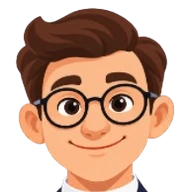
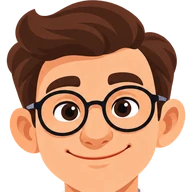
feat(sanad): greet with the full portrait, keep the face in the chat
The empty chat's welcome now shows the whole new portrait of Sanad, standing
in front of a disc of the theme's tint with its cut-off lower edge faded out.
The header and every answer keep a round face-only crop of the same drawing
(sanad-avatar.webp, regenerated from it).

diff --git a/web-frontend/test/unit/arabase/sanad.spec.js b/web-frontend/test/unit/arabase/sanad.spec.js
@@ -116,6 +116,18 @@ describe('SanadPanel', () => {
     expect(wrapper.findAll('.sanad__suggestion')).toHaveLength(0)
   })
 
+  test('an empty chat is greeted by the whole portrait', async () => {
+    const wrapper = await mountPanel()
+
+    expect(
+      wrapper.find('.sanad__welcome-portrait img').attributes('src')
+    ).toMatch(/sanad-portrait/)
+    // The header keeps the face only.
+    expect(wrapper.find('.sanad__logo img').attributes('src')).toMatch(
+      /sanad-avatar/
+    )
+  })
+
   test('sends a message, then polls until the answer arrives', async () => {
     const wrapper = await mountPanel()
     testApp.mock
@@ -394,10 +406,14 @@ describe('SanadPanel', () => {
 
     expect(wrapper.findAll('.sanad__bubble')).toHaveLength(1)
     expect(wrapper.findAll('.sanad__card')).toHaveLength(3)
-    // Sanad's portrait heads the panel and every one of its answers.
-    const portraits = wrapper.findAll('.sanad__avatar img, .sanad__logo img')
-    expect(portraits).toHaveLength(4)
-    expect(portraits[0].attributes('src')).toMatch(/sanad-avatar/)
+    // Sanad's face heads the panel and every one of its answers; the full
+    // portrait is only for the empty chat's welcome.
+    const faces = wrapper.findAll('.sanad__avatar img, .sanad__logo img')
+    expect(faces).toHaveLength(4)
+    expect(
+      faces.every((face) => /sanad-avatar/.test(face.attributes('src')))
+    ).toBe(true)
+    expect(wrapper.find('.sanad__welcome-portrait').exists()).toBe(false)
     const open = wrapper
       .findAll('.sanad__steps')
       .map((steps) => steps.element.open)

diff --git a/web-frontend/modules/arabase/assets/scss/sanad.scss b/web-frontend/modules/arabase/assets/scss/sanad.scss
@@ -74,9 +74,8 @@
 }
 
 // Sanad's face: a round portrait on the theme's tint, ringed in its accent.
-// Shared by the header, the welcome screen and every answer.
+// Shared by the header and every answer; the welcome screen shows all of him.
 .sanad__logo,
-.sanad__welcome-orb,
 .sanad__avatar {
   display: inline-flex;
   flex: 0 0 auto;
@@ -279,13 +278,40 @@
   text-align: center;
 }
 
-.sanad__welcome-orb {
-  inline-size: 88px;
-  block-size: 88px;
-  box-shadow:
-    0 0 0 3px var(--sanad-accent-bright),
-    0 0 0 10px var(--sanad-tint),
-    0 18px 36px -16px var(--sanad-accent);
+// The full portrait stands in front of a disc of the theme's tint. The drawing
+// is cut off at the waist, so its lower edge fades out instead of ending on a
+// hard line.
+.sanad__welcome-portrait {
+  position: relative;
+  display: block;
+  inline-size: 168px;
+  block-size: 168px;
+  margin-inline: auto;
+
+  &::before {
+    content: '';
+    position: absolute;
+    inset-block: 6% 10%;
+    inset-inline: 10%;
+    border-radius: 50%;
+    background-image: radial-gradient(
+      circle at 50% 35%,
+      var(--sanad-surface) 0%,
+      var(--sanad-tint-strong) 100%
+    );
+    box-shadow:
+      0 0 0 3px var(--sanad-accent-bright),
+      0 0 0 10px var(--sanad-tint);
+  }
+
+  img {
+    position: relative;
+    inline-size: 100%;
+    block-size: 100%;
+    object-fit: contain;
+    mask-image: linear-gradient(180deg, #000 78%, transparent 100%);
+    user-select: none;
+  }
 }
 
 .sanad__welcome-title {

diff --git a/web-frontend/modules/arabase/sanad/components/SanadPanel.vue b/web-frontend/modules/arabase/sanad/components/SanadPanel.vue
@@ -78,8 +78,12 @@
     <template v-else>
       <div ref="scroller" class="sanad__messages" aria-live="polite">
         <div v-if="!hasMessages" class="sanad__welcome">
-          <span class="sanad__welcome-orb" aria-hidden="true">
-            <img :src="avatar" alt="" draggable="false" />
+          <!--
+            The whole portrait greets the user; once the chat starts, only his
+            face heads the panel and each answer.
+          -->
+          <span class="sanad__welcome-portrait" aria-hidden="true">
+            <img :src="portrait" alt="" draggable="false" />
           </span>
           <p class="sanad__welcome-title">{{ $t('sanad.welcomeTitle') }}</p>
           <p class="sanad__welcome-text">{{ $t('sanad.welcomeText') }}</p>
@@ -320,6 +324,7 @@ import SanadService from '@jadawel/modules/arabase/services/sanad'
 import { notifyIf } from '@jadawel/modules/core/utils/error'
 import { takeSanadDraft } from '@jadawel/modules/arabase/sanad/utils/askSanad'
 import sanadAvatar from '@jadawel/modules/arabase/assets/images/sanad-avatar.webp?url'
+import sanadPortrait from '@jadawel/modules/arabase/assets/images/sanad-portrait.webp?url'
 
 const POLL_INTERVAL = 1500
 const MODEL_STORAGE_KEY = 'jadawel.sanad.model'
@@ -416,6 +421,7 @@ export default {
       model: '',
       noModel: false,
       avatar: sanadAvatar,
+      portrait: sanadPortrait,
       draft: '',
       sending: false,
       deciding: false,
